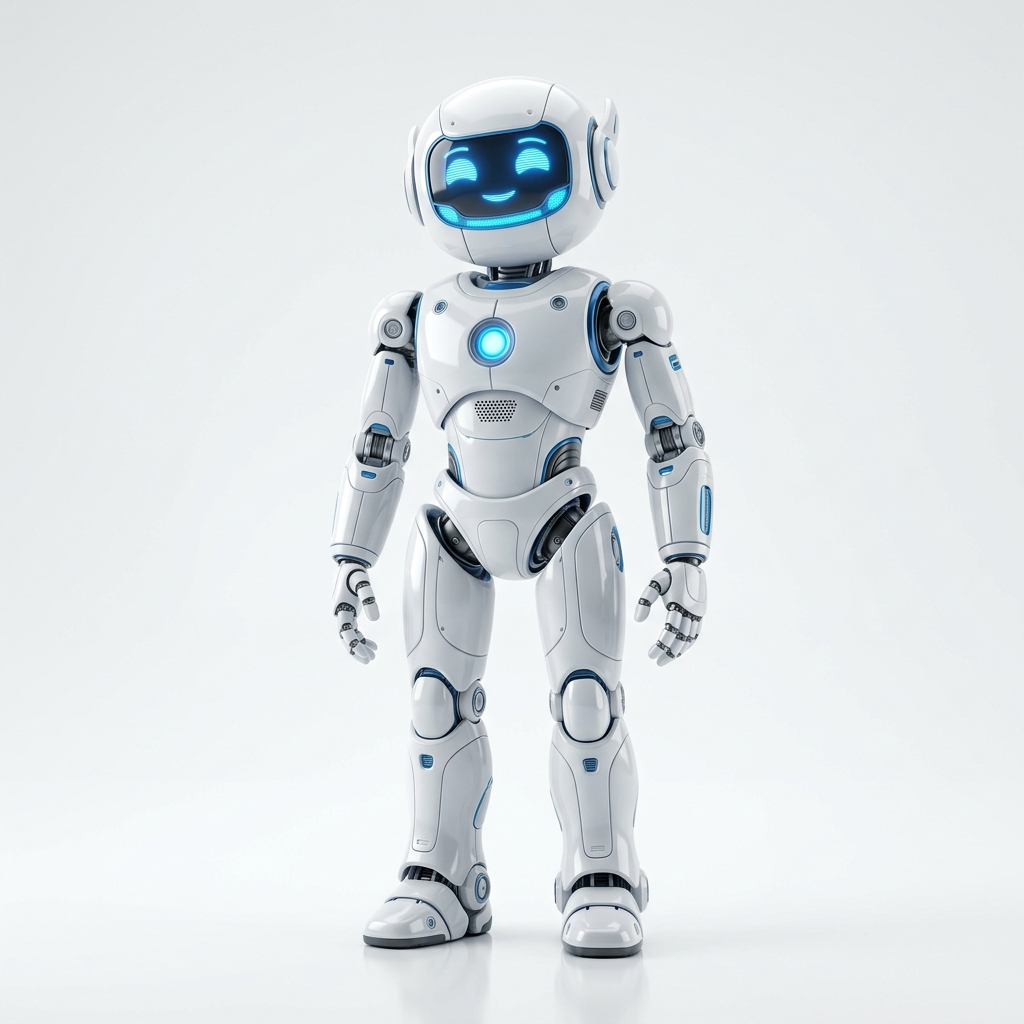
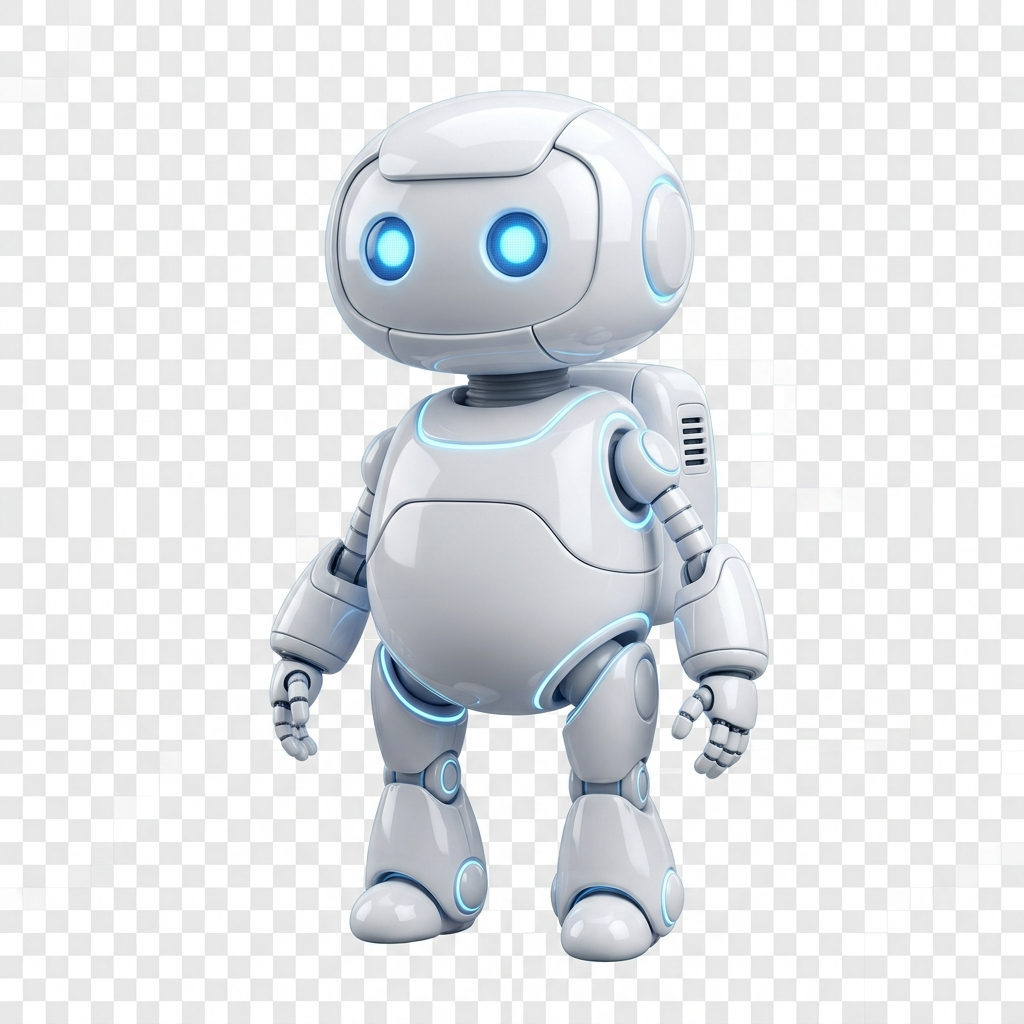
Fix: button contrast (bg-transparent override) and regenerate robot image with cleaner render

Changed region(s): [[0.25, 0.0938, 0.75, 1.0], [0.0, 0.0, 1.0, 0.5]]

diff --git a/components/BrandHighlights.tsx b/components/BrandHighlights.tsx
@@ -81,7 +81,7 @@ export function BrandHighlights() {
                 <Button className="bg-blue-600 hover:bg-blue-500 text-white h-10 px-6 rounded-lg text-xs font-medium transition-all duration-300 ease-[cubic-bezier(0.32,0.72,0,1)] active:scale-[0.98] group">
                   Xem chi tiết gian hàng <ArrowRight className="ml-2 w-3.5 h-3.5 transition-transform duration-300 group-hover:translate-x-0.5" />
                 </Button>
-                <Button variant="outline" className="border-white/10 text-white/50 hover:text-white/80 hover:bg-white/[0.04] h-10 px-6 rounded-lg text-xs font-medium transition-all duration-300 ease-[cubic-bezier(0.32,0.72,0,1)] active:scale-[0.98]">
+                <Button variant="outline" className="bg-transparent border-white/10 text-white/50 hover:text-white/80 hover:bg-white/[0.04] h-10 px-6 rounded-lg text-xs font-medium transition-all duration-300 ease-[cubic-bezier(0.32,0.72,0,1)] active:scale-[0.98]">
                   Trải nghiệm ngay
                 </Button>
               </div>

diff --git a/components/HeroSection.tsx b/components/HeroSection.tsx
@@ -74,7 +74,7 @@ export function HeroSection() {
               <Button className="bg-blue-600 hover:bg-blue-500 text-white h-12 px-7 rounded-lg text-sm font-medium transition-all duration-300 ease-[cubic-bezier(0.32,0.72,0,1)] active:scale-[0.98] shadow-[0_0_24px_rgba(59,130,246,0.2)]">
                 <Play className="mr-2 w-4 h-4" /> BẮT ĐẦU THAM QUAN
               </Button>
-              <Button variant="outline" className="border-white/10 text-white/70 hover:text-white hover:bg-white/[0.04] h-12 px-7 rounded-lg text-sm font-medium transition-all duration-300 ease-[cubic-bezier(0.32,0.72,0,1)] active:scale-[0.98]">
+              <Button variant="outline" className="bg-transparent border-white/10 text-white/70 hover:text-white hover:bg-white/[0.04] h-12 px-7 rounded-lg text-sm font-medium transition-all duration-300 ease-[cubic-bezier(0.32,0.72,0,1)] active:scale-[0.98]">
                 <BookOpen className="mr-2 w-4 h-4" /> HƯỚNG DẪN THAM QUAN
               </Button>
             </div>